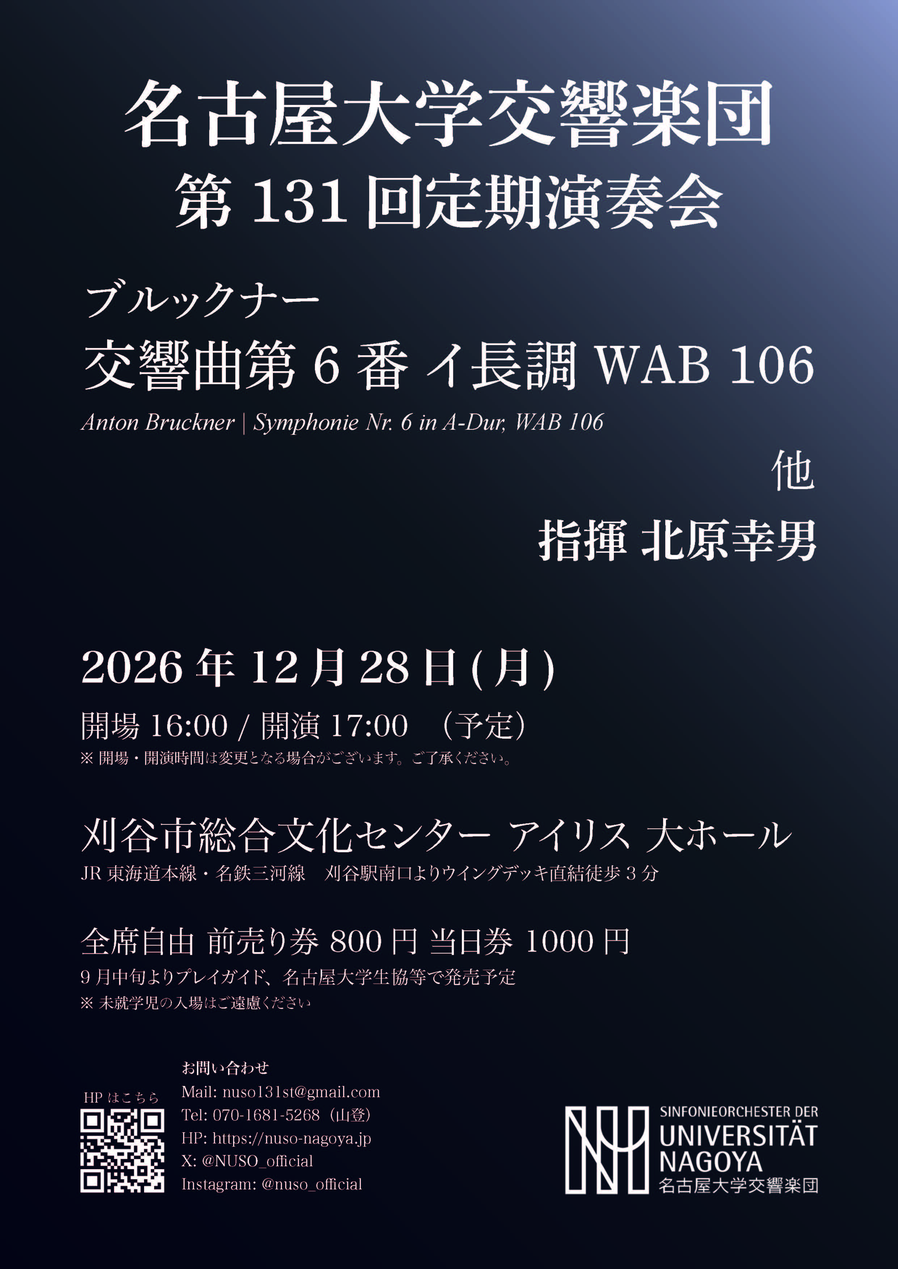
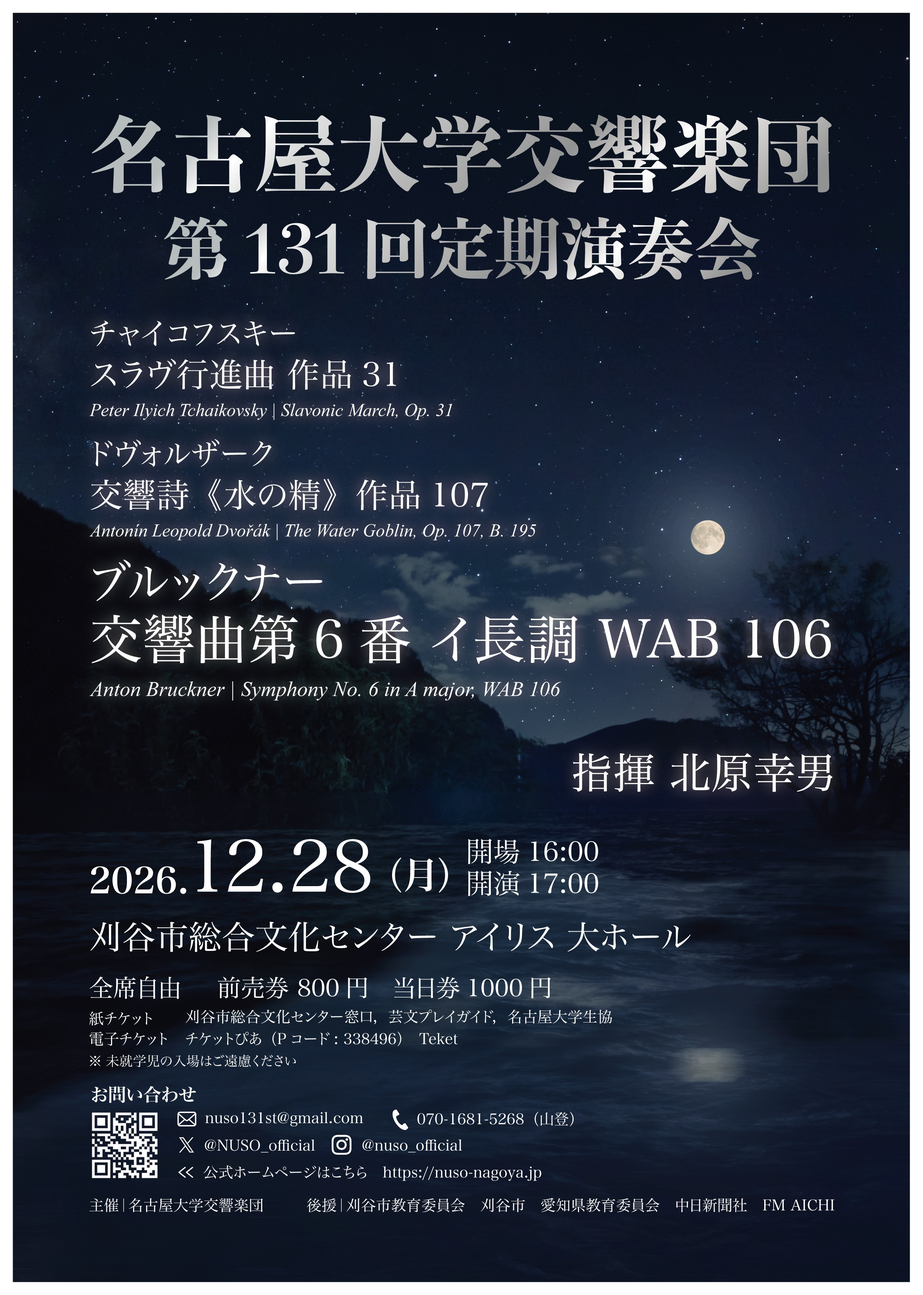
131に向けて更新
本ビラ追加、録音フォルダの更新

diff --git a/131st.html b/131st.html
@@ -135,13 +135,14 @@
                                 </tr>
                                 
                                 <tr align="center">
-                                    <td colspan="2">ほか</td>
+                                    <td>交響詩「水の精」<br>The Water Goblin, Op. 107</td>
+                                    <td>ドヴォルザーク<br>Antonín Dvořák</td>
                                 </tr>
                                 
-                                <!-- <tr align="center">
-                                    <td>歌劇「リエンツィ」 序曲<br>"Rienzi" Overture</td>
-                                    <td>ワーグナー<br>Richard Wagner</td>
-                                </tr> -->
+                                <tr align="center">
+                                    <td>スラヴ行進曲<br>Slavonic March, Op.31</td>
+                                    <td>チャイコフスキー<br>Pyotr Tchaikovsky</td>
+                                </tr>
                                 </table><br>
                             <p><b>日時</b><br>&emsp;2026年12月28日(月) 16:00開場 17:00開演(予定)</p><br>
                             <p><b>会場</b><br>&emsp;<a href="https://maps.app.goo.gl/5xmQCSPN5RfCsrNw6" target="_blank" rel="noopener noreferrer">刈谷市総合文化センター アイリス 大ホール(GoogleMap)</a></p><br>

diff --git a/715dc8493c36579a5b116995100f635e3572fdf8703e708ef1a08d943b36774e.html b/715dc8493c36579a5b116995100f635e3572fdf8703e708ef1a08d943b36774e.html
@@ -80,8 +80,8 @@
                         style="border:solid 1px #777" width="800" height="600" frameborder="0" scrolling="no"></iframe>
                 </div><br><br> -->
             
-            <h3>2026年度音楽教室期間 録音フォルダ</h3>
-                <iframe src="https://drive.google.com/embeddedfolderview?id=1a9MPJuByJ2fYT7_EkN-mewnhgaSxy9U7" style="width:100%; height:400px; border: 0;"></iframe>
+            <h3>131回定期演奏会期間 録音フォルダ</h3>
+                <iframe src="https://drive.google.com/drive/folders/1JWW5Y97EZSa6rw4d4gN4nMnHJfdjJYYN?usp=drive_link" style="width:100%; height:400px; border: 0;"></iframe>
             <!-- https://drive.google.com/drive/folders/1Sk7qpx_ka22TiFDPKVeTONhDhinDYGdo?usp=sharing -->
 
             <h3>総会議事録フォルダ</h3>
